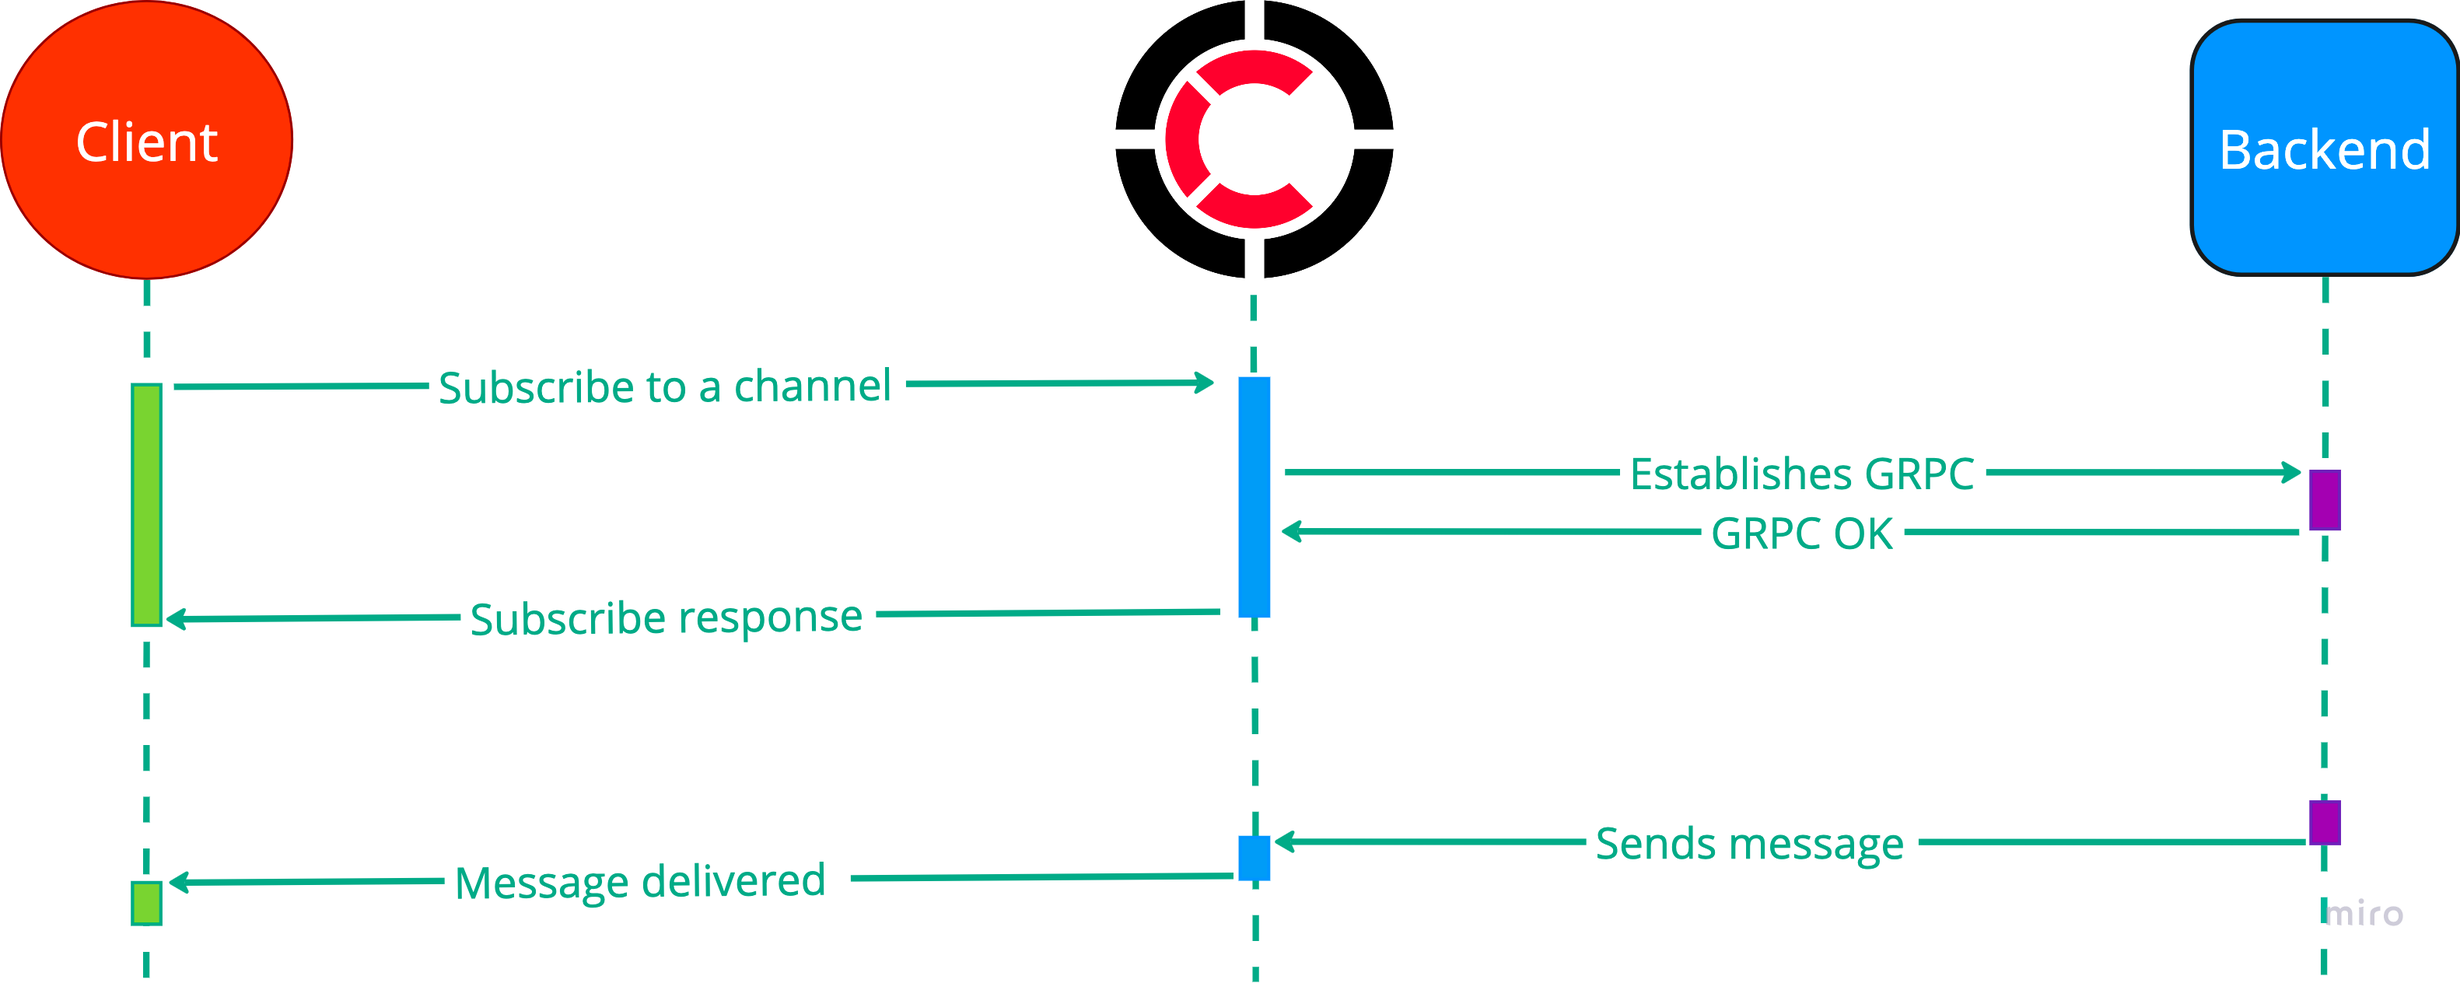
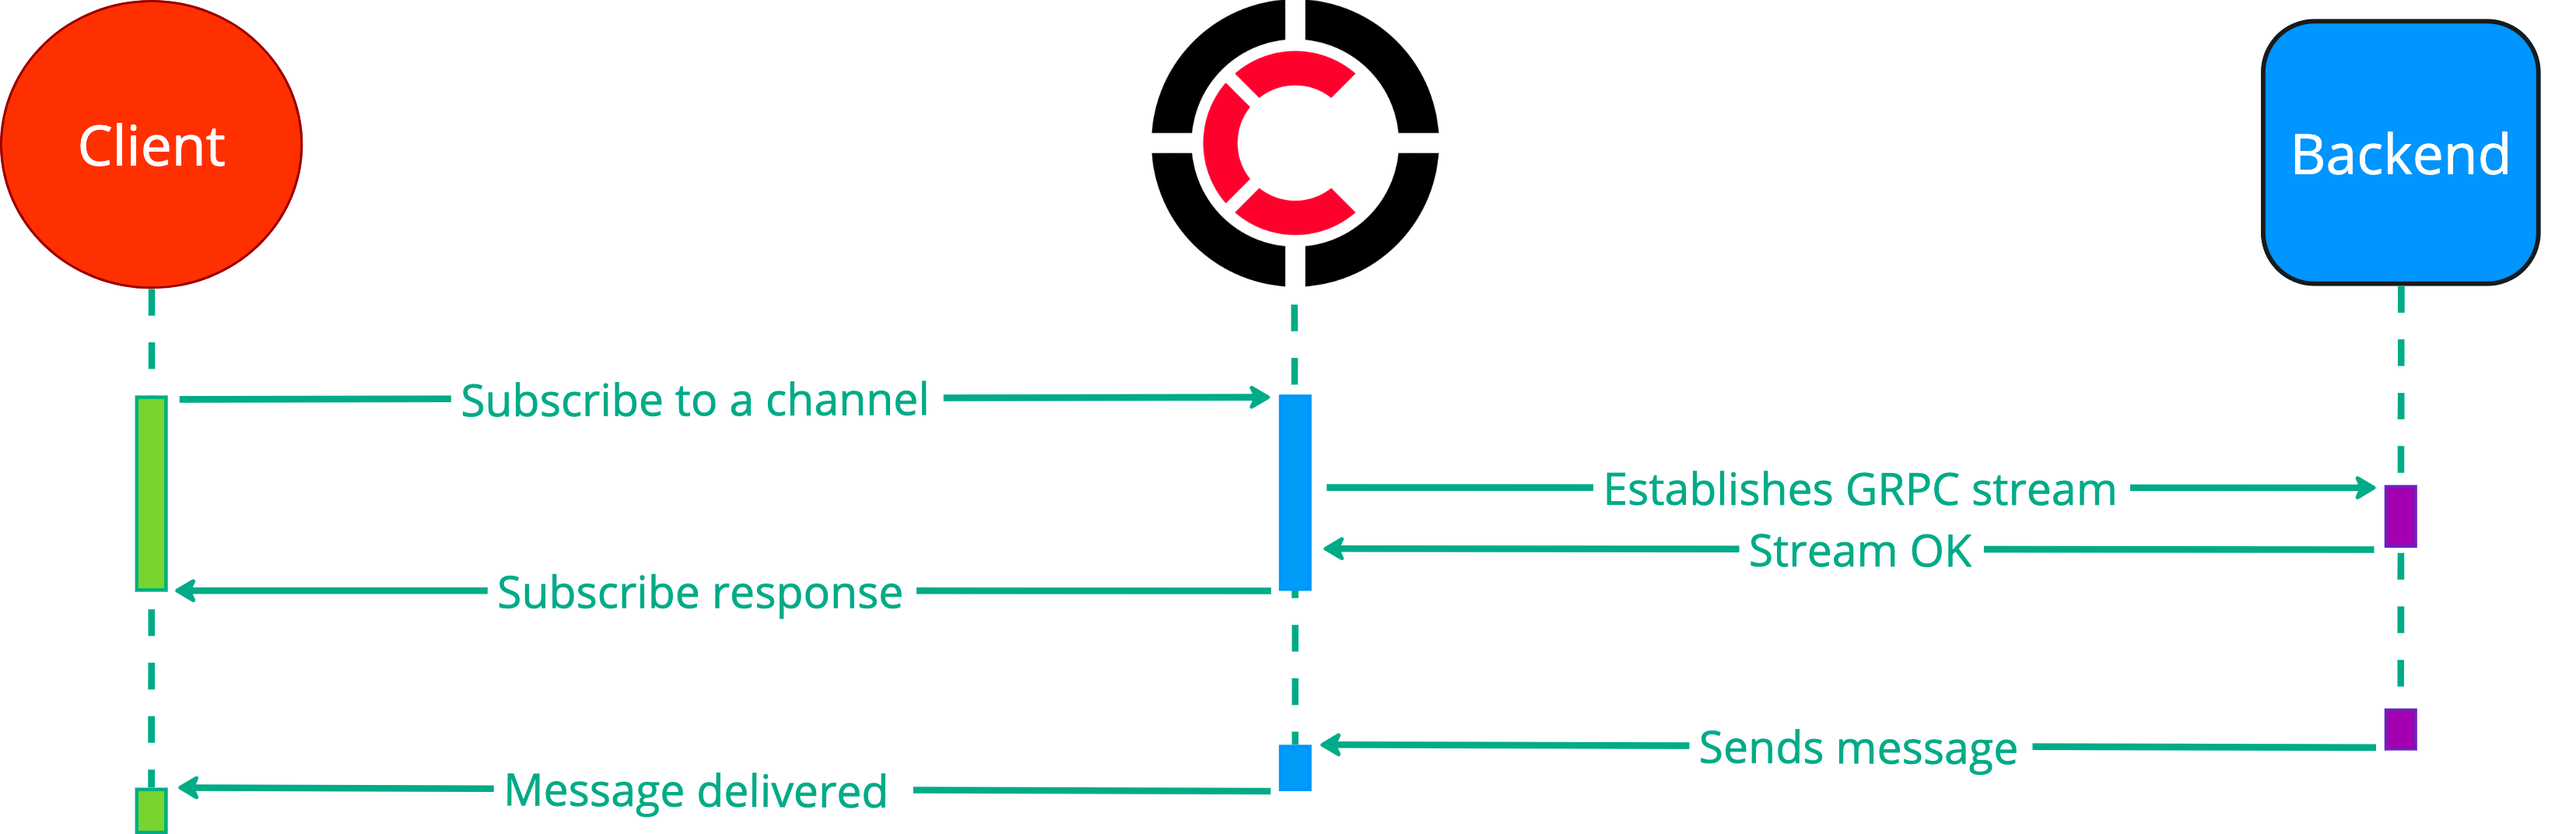
new diagrams for tokens

diff --git a/docs/pro/on_demand_streams.md b/docs/pro/on_demand_streams.md
@@ -2,24 +2,194 @@
 id: on_demand_streams
 sidebar_label: On-demand streams
 title: On-demand streams
+draft: true
 ---
 
-Rejected 🚫
+In design 🚧
 
-On-demand streams feature of Centrifugo PRO allows pushing data towards client channel subscription directly from your application backend over the unidirectional GRPC stream. The scheme may be useful if you want to generate individual streams for clients and these streams should only work for a time while client is subscribed – i.e. a stream must only be initialized on client's demand.
+On-demand streams feature of Centrifugo allows pushing data towards client channel subscription directly and individually from your application backend over the unidirectional GRPC stream (and optionally over the [bidirectional](#bidirectional-streaming) one). The stream is established between Centrifugo and your application backend as soon as user subscribes to a channel. The scheme may be useful if you want to generate individual streams for clients and these streams should only work for a time while client is subscribed to a channel – i.e. a stream must only be allocated on client's demand.
+
+In this case Centrifugo plays a role of WebSocket-to-GRPC streaming proxy – keeping many real-time connections from your app clients and establishing GRPC streams to the backend using a pool of HTTP/2 (transport used by GRPC) connections.
 
 ![](/img/proxy_streams.png)
 
-Let's describe a real-life use case. Say you have Loki for keeping logs, it provides a streaming API for tailing logs. You decided to stream logs towards your clients. When client subscribes to some channel in Centrifugo and the unidirectional stream established between Centrifugo and your backend – backend starts tailing Loki logs and transfers them towards client over Centrifugo.
+## Motivation and design
 
-In that case all the client authentication and channel permission control may be delegated to common Centrifugo mechanisms, so when the stream is established you know the ID of user and the channel. You can also additionally check channel permissions at the moment of stream establishement. As soon as client unsubscribes from the channel – Centrifugo closes the unidirectional GRPC stream.
+On-demand streams generally solve a task of integrating with third-party streaming providers with custom filtering.
 
-If for some reason connection between Centrifugo and backend is closed – then Centrifugo will unsubscribe a client with `insufficient state` reason and a client will soon resubscribe to a channel.
+Let's describe a real-life use case. Say you have [Loki](https://grafana.com/oss/loki/) for keeping logs, it provides a [streaming API for tailing logs](https://grafana.com/docs/loki/latest/api/#stream-log-messages). You decided to stream logs towards your clients. When client subscribes to some channel in Centrifugo and the unidirectional stream established between Centrifugo and your backend – backend starts tailing Loki logs and transfers them towards client over Centrifugo. Client can provide custom data upon subscribing to a channel which makes it possible to pass query filters from the frontend app.
 
-Note, that in this case Centrifugo broker's PUB/SUB and history are not used at all – because it's a direct connection between Centrifugo node and your backend.
+:::note
 
-:::caution
-
-This scheme increases resource usage on both Centrifugo and app backend sides  – so if you don't need on-demand streams – prefer using Centrifugo usual approach for always publishing messages to channels whenever event happens.
+Is this possible to implement without on-demand streams using other Centrifugo primitives? Actually, yes. Client can subscribe to the unique channel name, with the help of [subscribe proxy](../server/proxy.md#subscribe-proxy) app backend could know about new subscription and start streaming towards the provided channel by publishing messages over Centrifugo server API. If you enable channel presence then you can periodically ask Centrifugo whether the channel is still occupied by a subscriber and deallocate resources on the app backend. Or use sub_refresh proxy feature to be periodically notified by Centrifugo about subscription liveness. If your stream ends – you can call Centrifugo unsubscribe server API. This could be more efficient than on-demand streams actually – but more complex to implement and has its own trade-offs in terms of latencies.
 
 :::
+
+In case of on-demand streams all the client authentication and channel permission control may be delegated to common Centrifugo mechanisms, so when the stream is established you know the ID of user and the channel. You can also additionally check channel permissions at the moment of stream establishement. As soon as client unsubscribes from the channel – Centrifugo closes the unidirectional GRPC stream.
+
+If for some reason connection between Centrifugo and backend is closed – then Centrifugo will unsubscribe a client with `insufficient state` reason and a client will soon resubscribe to a channel (managed automatically by our SDKs).
+
+
+:::danger Take care of channel names
+
+At this point it's the task of an application to use unique channel names for each individual on-demand stream created on the client side. If you subscribe to the same channel name from different browser tabs - then two different GRPC streams will be established with your backend and you will have merged/duplicate data in client-side subscriptions. To avoid this use unique channel names – for example, generate UUID V4 string and use it as part of a channel.
+
+:::
+
+:::caution Use on-demand streams only when really needed
+
+This scheme increases resource usage on both Centrifugo and app backend sides because it involves more moving parts and connections. The feature is quite niche actually. If you don't really need on-demand streams – prefer using Centrifugo usual approach for always publishing messages to channels whenever event happens. This is efficient and Centrifugo just drops messages in case of no active subscribers in a channel. On-demand streams should scale well horizontally – but they consume more resources which may become expensive in scale. The common advice here is load testing for your concrete use case.
+
+:::
+
+:::info History and presence are not used for on-demand streams
+
+Note, that for the case of on-demand streams Centrifugo channel history, recovery, presence features are not available. On-demand stream is an individual direct link between client and your backend through Centrifugo which is always re-established from scratch upon re-subscription. The benefit of the history is not clear in this case and can only bring undesired overhead. For presence you can always use a separate channel which works in a standard Centrifugo way.
+
+:::
+
+## Bidirectional streaming
+
+In addition to unidirectional streams, Centrifugo supports bidirectional streams upon client channel subscription. In this case client gets a possibility to stream any data to the backend utilizing bidirectional communication. Client can send messages to a bidi stream by using `.publish(data)` method of a Subscription object.
+
+In terms of general design bidirectional streams behave similar to unidirectional streams as described above. 
+
+## Configuration
+
+You can configure on-demand streams usage for channels similar to how [subscribe proxy](../server/proxy.md#subscribe-proxy) is configured.
+
+First, configure stream proxy, pointing to the backend which implements out on-demand streaming service:
+
+```json title="config.json"
+{
+  ...
+  "proxy_stream_endpoint": "grpc://localhost:3000/centrifugo/subscribe",
+  "proxy_stream_timeout": "5s"
+}
+```
+
+Only `grpc` endpoints are supported since we are heavily relying on GRPC ecosystem here. `proxy_stream_timeout` in this case defines a time how long Centrifugo waits for a first message from a stream which can contain subscription details to transfer to a client. 
+
+Then you can enable on-demand streams for channels on a namespace level:
+
+```json title="config.json"
+{
+  ...
+  "proxy_stream_endpoint": "grpc://localhost:12000",
+  "proxy_stream_timeout": "5s",
+  "namespaces": [
+    {
+        "name": "streams",
+        "proxy_stream": true
+    }
+  ]
+}
+```
+
+By default, Centrifugo uses unidirectional GRPC streams which should fit most of the use cases. To enable bidirectional streaming add `proxy_stream_bidirectional` flag:
+
+```json title="config.json"
+{
+  ...
+  "proxy_stream_endpoint": "grpc://localhost:12000",
+  "proxy_stream_timeout": "5s",
+  "namespaces": [
+    {
+        "name": "streams",
+        "proxy_stream": true,
+        "proxy_stream_bidirectional": true
+    }
+  ]
+}
+```
+
+:::info
+
+At this point you can not use subscribe, publish, sub_refresh proxy configurations together with stream proxy configuration inside one channel namespace. 
+
+:::
+
+That's it on Centrifugo side. Now on the app backend you should implement GRPC service according to the following definitions:
+
+```php
+service CentrifugoProxyStream {
+  // Consume allows handling unidirectional streams.
+  rpc Consume(SubscribeRequest) returns (stream Response);
+
+  // Communicate allows handling bidirectional streams.
+  rpc Communicate(stream CommunicateRequest) returns (stream Response);
+}
+```
+
+Just follow GRPC tutorials for your programming language to generate server stubs from our Protobuf schema.
+
+Next you need to implement streaming handler on the application backend side which contains stream business logic. A basic example of such handler in Go may look like this:
+
+```go
+package main
+
+import (
+	"fmt"
+	"log"
+	"math"
+	"net"
+	"strconv"
+	"time"
+
+	pb "example/proxystreamproto"
+	"google.golang.org/grpc"
+)
+
+type streamServer struct {
+	pb.UnimplementedCentrifugoProxyStreamServer
+}
+
+func (s *streamServer) Consume(
+    req *pb.SubscribeRequest,
+    stream pb.CentrifugoProxyStream_ConsumeServer,
+) error {
+    log.Println("consume called for channel", req.Channel)
+	stream.Send(&pb.Response{}) // We expect first message to always be sent.
+	i := 0
+	for {
+		time.Sleep(time.Second)
+        pub := &pb.Publication{Data: []byte(`{"input": "` + strconv.Itoa(i) + `"}`)}
+		stream.Send(&pb.Response{Publication: pub})
+		i++
+        if i > 10 {
+            break
+        }
+	}
+    return nil
+}
+
+func main() {
+	lis, _ := net.Listen("tcp", ":12000")
+	s := grpc.NewServer(grpc.MaxConcurrentStreams(math.MaxUint32))
+	pb.RegisterCentrifugoProxyStreamServer(s, &streamServer{})
+	_ = s.Serve(lis) // Error handling skipped for brevity.
+}
+```
+
+Note that we have some rules about messages in streams. Upon stream establishement Centrifugo expects backend to send first message from a stream and waits for it before replying to the client's subscription command. This way we can communicate initial state with a client and make sure streaming is properly established with all permission checks passed. After sending initial message you can send events (publications) as they appear in your system.
+
+Now everything should be ready to test it out from the client side: just subscribe to a channel where stream proxy is on with our SDK – and you will see your stream handler called and data streamed from it to a client. For example, with our Javascript SDK:
+
+```javascript
+const client = new Centrifuge('ws://localhost:8000/connection/websocket', {
+    getToken: getTokenImplementation
+});
+
+const sub = client.newSubscription('streams:123e4567-e89b-12d3-a456-426614174000', {
+    data: {}
+}).on('publication', function(ctx) {
+    console.log("received publication from a channel", ctx.data);
+});
+
+sub.subscribe();
+client.connect();
+```
+
+## Granular stream proxy mode
+
+At this point we are not providing a way to configure stream proxies in a granular mode similar to what we have for [connection event proxies](../server/proxy.md#granular-proxy-mode). Please reach us out if you need this feature.

diff --git a/docs/server/authentication.md b/docs/server/authentication.md
@@ -19,7 +19,9 @@ Using JWT auth can be nice in terms of massive reconnect scenario. Since authent
 
 Upon connecting to Centrifugo client should provide a connection JWT with several predefined credential claims. Here is a diagram:
 
-![](/img/diagram_jwt_authentication.png)
+![](/img/connection_token.png)
+
+See more info about working with connection tokens on the client side in [client SDK spec](../transports/client_api.md#client-connection-token).
 
 At the moment Centrifugo supports HMAC, RSA and ECDSA JWT algorithms - i.e. HS256, HS384, HS512, RSA256, RSA384, RSA512, EC256, EC384, EC512.
 

diff --git a/docs/server/channel_token_auth.md b/docs/server/channel_token_auth.md
@@ -9,7 +9,9 @@ Subscription token is also JWT. Very similar to [connection token](authenticatio
 
 Valid subscription token passed to Centrifugo in subscribe request will tell Centrifugo that subscription must be accepted.
 
-The way how this token is obtained on the frontend side varies depending on a client SDK implementation. 
+![](/img/subscription_token.png)
+
+See more info about working with subscription tokens on the client side in [client SDK spec](../transports/client_api.md#subscription-token).
 
 :::tip
 

diff --git a/docs/server/configuration.md b/docs/server/configuration.md
@@ -7,7 +7,7 @@ Let's look at how Centrifugo can be configured.
 
 :::info There are more options
 
-This chapter describes configuration principles and some important configuration options. There are some options not mentioned here but described later in each feature documentation.
+This chapter describes configuration principles and some important configuration options. There are some options not mentioned here but described throughout the doc in context of each individual server feature.
 
 :::
 
